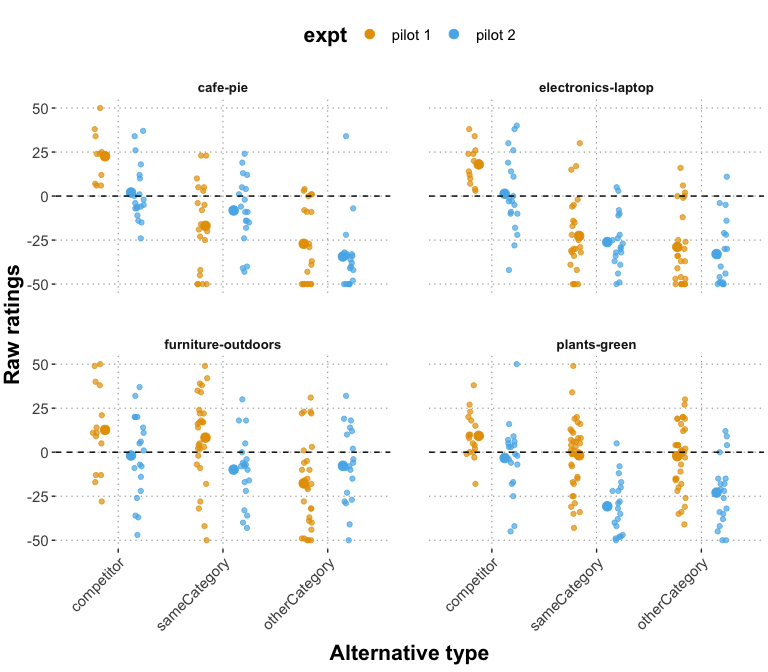
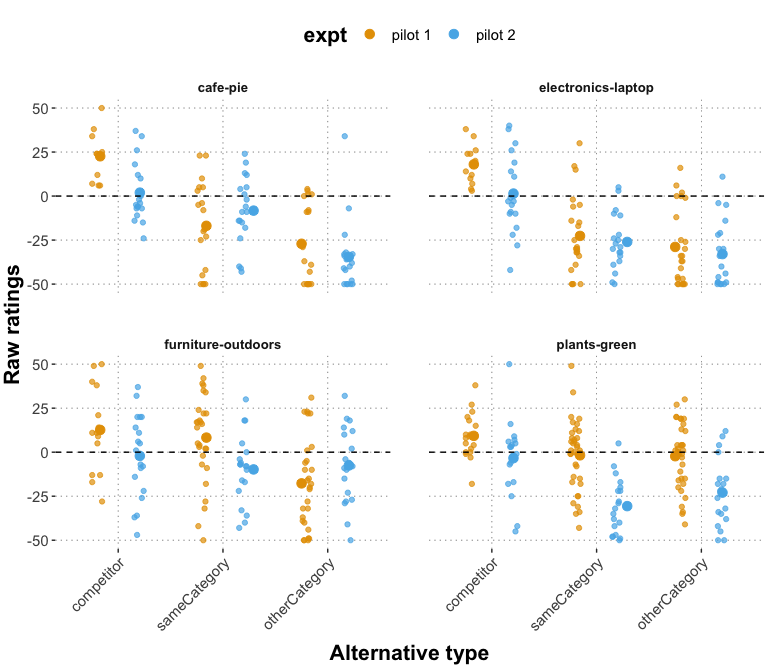
remove centering and hline

diff --git a/data+analysis/03_pilot2_prior_elicitation_analysis.md b/data+analysis/03_pilot2_prior_elicitation_analysis.md
@@ -16,7 +16,8 @@ the background and question formulations were updated to e.g. “Suppose
 someone wants to have raspberry pie” - “How happy do you think they
 would be if instead they got X?”. This framing might better tap into the
 similarity of the alternatives. Only the words “to have” in the context
-might vary across vignettes.
+might vary across vignettes. Participants responded on a slider ranging
+from “much less happy” to “much happier”, centered at “equally happy”.
 
 Furthermore, each participant only saw three sliders: competitor, a
 randomly sampled same-category option and a randomly sampled
@@ -72,6 +73,7 @@ ratings arounfd 50 and other ratings to be rather below 50.
     ## ℹ Use `spec()` to retrieve the full column specification for this data.
     ## ℹ Specify the column types or set `show_col_types = FALSE` to quiet this message.
     ## `summarise()` has grouped output by 'itemName', 'answerType'. You can override using the `.groups` argument.
+    ## `summarise()` has grouped output by 'itemName'. You can override using the `.groups` argument.
 
 ![](03_pilot2_prior_elicitation_analysis_files/figure-gfm/unnamed-chunk-9-1.png)<!-- -->
 
